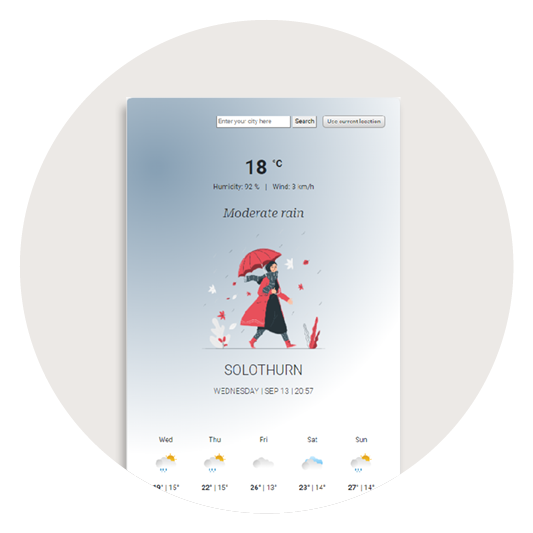
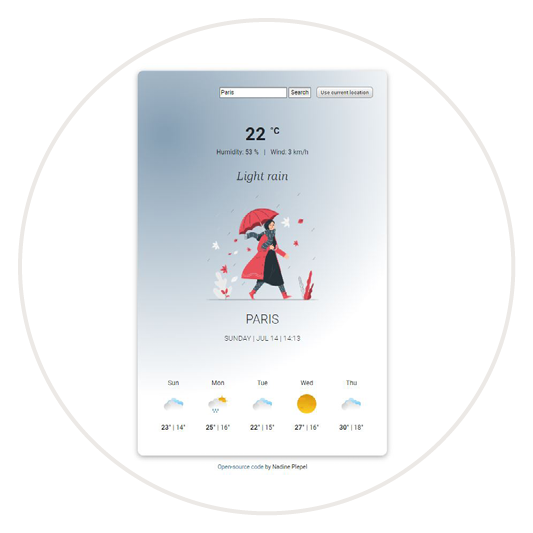
Various updates of pictures, some texts and projects

diff --git a/portfolio.html b/portfolio.html
@@ -114,7 +114,7 @@
               worked on different coding challenges during my training at
               SheCodes.
               <br /><br />If you like what you see so far - stay tuned! There
-              are many more projects to come.
+              are more projects to come.
             </h2>
           </div>
         </div>
@@ -131,32 +131,8 @@
           </div>
 
           <div class="row">
-            <div class="col-md mb-3 d-flex align-items-stretch">
-              <div class="card p-3 text-center shadow" style="width: 20rem">
-                <img
-                  src="images/bookaholics-website.png"
-                  class="card-img-top"
-                  alt="Bookaholic's website"
-                />
-                <div class="card-body">
-                  <h5 class="card-title">A bookaholic's website</h5>
-                  <p class="card-text">
-                    My first project during the SheCodes Basics Workshop using
-                    HTML & CSS. A small tribute to the wonderful world of books.
-                  </p>
-                  <a
-                    href="https://www.shecodes.io/workshops/shecodes-basics-d3253158-a0b1-46e3-9427-64a83ce8fd6c/projects/1770246"
-                    class="btn btn-project"
-                    title="Bookaholic's website"
-                    target="_blank"
-                    >Learn more</a
-                  >
-                </div>
-              </div>
-            </div>
-
-            <div class="col-md mb-3 d-flex align-items-stretch">
-              <div class="card p-3 text-center shadow" style="width: 20rem">
+            <div class="col-md mb-3 d-flex">
+              <div class="card p-3 text-center shadow" style="width: 24rem">
                 <img
                   src="images/weather-app.png"
                   class="card-img-top"
@@ -165,10 +141,14 @@
                 <div class="card-body">
                   <h5 class="card-title">Weather app</h5>
                   <p class="card-text">
-                    Creation of a weather app during the SheCodes Plus Workshop
+                    Creation of a weather app during the SheCodes Plus workshop
                     using HTML, CSS & JS to fetch current weather data &
-                    forecasts.
+                    forecasts. It changes the theme to dark as soon as it is
+                    past 8 pm and back to light as soon as it is 7 am. The
+                    images also change depending on the weather.
                   </p>
+                </div>
+                <div>
                   <a
                     href="https://aquamarine-nasturtium-f00c4e.netlify.app/"
                     class="btn btn-project"
@@ -180,8 +160,90 @@
               </div>
             </div>
 
+            <div class="col-md mb-3 d-flex">
+              <div class="card p-3 text-center shadow" style="width: 24rem">
+                <img
+                  src="images/react-weather-app.png"
+                  class="card-img-top"
+                  alt="React Weather App"
+                />
+                <div class="card-body">
+                  <h5 class="card-title">React Weather App</h5>
+                  <p class="card-text">
+                    The weather app was also built using React during the
+                    SheCodes Max workshop. It has the same functionality as the
+                    one built from scratch with HTML, CSS & JS.
+                  </p>
+                </div>
+                <div>
+                  <a
+                    href="https://she-weatherly.netlify.app/"
+                    class="btn btn-project"
+                    title="React Weather App"
+                    target="_blank"
+                    >Try it out</a
+                  >
+                </div>
+              </div>
+            </div>
+
+            <div class="col-md mb-3 d-flex">
+              <div class="card p-3 text-center shadow" style="width: 24rem">
+                <img
+                  src="images/world-clock.png"
+                  class="card-img-top"
+                  alt="World clock"
+                />
+
+                <div class="card-body">
+                  <h5 class="card-title">World Clock</h5>
+                  <p class="card-text">
+                    Creation of a world clock during the SheCodes Plus add-on
+                    workshop using HTML, CSS & JS (e.g. moment.js) to fetch
+                    current local time data of preselected cities.
+                  </p>
+                </div>
+                <div>
+                  <a
+                    href="https://funny-mermaid-ddea60.netlify.app/"
+                    class="btn btn-project"
+                    title="World clock"
+                    target="_blank"
+                    >Try it out</a
+                  >
+                </div>
+              </div>
+            </div>
+
+            <div class="col-md mb-3 d-flex">
+              <div class="card p-3 text-center shadow" style="width: 24rem">
+                <img
+                  src="images/tribute-to-tromso.png"
+                  class="card-img-top"
+                  alt="Tromsø Travel Page"
+                />
+                <div class="card-body">
+                  <h5 class="card-title">Tromsø Travel Page</h5>
+                  <p class="card-text">
+                    Creation of a Travel Page during the SheCodes Responsive
+                    add-on workshop using HTML, CSS & JS. A small tribute to a
+                    beautiful city.
+                  </p>
+                </div>
+                <div>
+                  <a
+                    href="https://tribute-to-tromso.netlify.app/"
+                    class="btn btn-project"
+                    title="Tromsø Travel Page"
+                    target="_blank"
+                    >See for yourself</a
+                  >
+                </div>
+              </div>
+            </div>
+
             <div class="col-md mb-3 d-flex align-items-stretch">
-              <div class="card p-3 text-center shadow" style="width: 20rem">
+              <div class="card p-3 text-center shadow" style="width: 24rem">
                 <img
                   src="images/further-work-in-progress.png"
                   class="card-img-top"
@@ -190,11 +252,14 @@
                 <div class="card-body">
                   <h5 class="card-title">Further projects in progress</h5>
                   <p class="card-text">
-                    Stay tuned - more projects will follow soon!
+                    Stay tuned! More projects will follow.
                   </p>
                   <!-- <a href="#" class="btn btn-project">Go to website</a> -->
                 </div>
               </div>
+            </div>
+            <div class="col-md mb-3 d-flex align-items-stretch">
+              <div style="width: 24rem"></div>
             </div>
           </div>
         </div>

diff --git a/index.html b/index.html
@@ -125,7 +125,7 @@
           </div>
           <div class="main-content">
             <img
-              src="images/np-portfolio-website-home-rahmen.png"
+              src="images/np-portfolio-website-home_2.png"
               alt="Nadine Plepel"
               class="img-fluid"
             />
@@ -147,36 +147,16 @@
             <div class="col-md mb-3 d-flex align-items-stretch">
               <div class="card p-3 text-center shadow" style="width: 20rem">
                 <img
-                  src="images/bookaholics-website.png"
+                  src="images/react-weather-app.png"
                   class="card-img-top"
-                  alt="Bookaholic's website"
+                  alt="React Weather App"
                 />
                 <div class="card-body">
-                  <h5 class="card-title">A bookaholic's website</h5>
+                  <h5 class="card-title">React Weather App</h5>
                   <a
-                    href="https://www.shecodes.io/workshops/shecodes-basics-d3253158-a0b1-46e3-9427-64a83ce8fd6c/projects/1770246"
+                    href="https://she-weatherly.netlify.app/"
                     class="btn btn-project"
-                    title="Bookaholic's website"
-                    target="_blank"
-                    >Learn more</a
-                  >
-                </div>
-              </div>
-            </div>
-
-            <div class="col-md mb-3 d-flex align-items-stretch">
-              <div class="card p-3 text-center shadow" style="width: 20rem">
-                <img
-                  src="images/weather-app.png"
-                  class="card-img-top"
-                  alt="Weather app"
-                />
-                <div class="card-body">
-                  <h5 class="card-title">Weather app</h5>
-                  <a
-                    href="https://aquamarine-nasturtium-f00c4e.netlify.app/"
-                    class="btn btn-project"
-                    title="Weather app"
+                    title="React Weather App"
                     target="_blank"
                     >Try it out</a
                   >
@@ -187,16 +167,55 @@
             <div class="col-md mb-3 d-flex align-items-stretch">
               <div class="card p-3 text-center shadow" style="width: 20rem">
                 <img
+                  src="images/world-clock.png"
+                  class="card-img-top"
+                  alt="World clock"
+                />
+                <div class="card-body">
+                  <h5 class="card-title">World Clock</h5>
+                  <a
+                    href="https://funny-mermaid-ddea60.netlify.app/"
+                    class="btn btn-project"
+                    title="World clock"
+                    target="_blank"
+                    >Try it out</a
+                  >
+                </div>
+              </div>
+            </div>
+
+            <div class="col-md mb-3 d-flex align-items-stretch">
+              <div class="card p-3 text-center shadow" style="width: 20rem">
+                <img
+                  src="images/tribute-to-tromso.png"
+                  class="card-img-top"
+                  alt="Tromsø Travel Page"
+                />
+                <div class="card-body">
+                  <h5 class="card-title">Tromsø Travel Page</h5>
+                  <a
+                    href="https://tribute-to-tromso.netlify.app/"
+                    class="btn btn-project"
+                    title="Tromsø Travel Page"
+                    target="_blank"
+                    >See for yourself</a
+                  >
+                </div>
+              </div>
+            </div>
+
+            <!-- <div class="col-md mb-3 d-flex align-items-stretch">
+              <div class="card p-3 text-center shadow" style="width: 20rem">
+                <img
                   src="images/further-work-in-progress.png"
                   class="card-img-top"
                   alt="Work in progress"
                 />
                 <div class="card-body">
                   <h5 class="card-title">Further projects in progress</h5>
-                  <!-- <a href="#" class="btn btn-project">Go to website</a> -->
-                </div>
+                   </div>
               </div>
-            </div>
+            </div> -->
           </div>
         </div>
       </div>

diff --git a/about.html b/about.html
@@ -111,12 +111,12 @@
               Hi there, I'm Nadine. <br />
               <br />
               I am a Marketing Manager of several years and have started to
-              learn Front End Development at SheCodes in my spare time a few
-              months ago. So far, I loved every (challenging) minute of it and I
-              am constantly learning new things and expanding my skill set.
-              Coding allows me to bring my creativity to life in ways I never
-              thought I would be able to. It is the most satisfying thing to
-              create something from scratch. <br />
+              learn Front End Development at SheCodes in my spare time in summer
+              2023. So far, I loved every (challenging) minute of it and I am
+              constantly learning new things and expanding my skill set. Coding
+              allows me to bring my creativity to life in ways I never thought I
+              would be able to. It is the most satisfying thing to create
+              something from scratch. <br />
               <br />
               In my < br /> from learning how to code, I like to spend my spare
               time with the people I love most and get lost in a good book. Four
@@ -133,7 +133,7 @@
           </div>
           <div class="main-content">
             <img
-              src="images/np-about-page-images.png"
+              src="images/np-about-page-images_2.png"
               alt="Nadine Plepel"
               class="img-fluid"
             />

diff --git a/css/styles.css b/css/styles.css
@@ -64,6 +64,7 @@ h5 {
   background-color: var(--item-color);
   color: white;
   margin-top: 10px;
+  margin-bottom: 20px;
 }
 
 .card {
